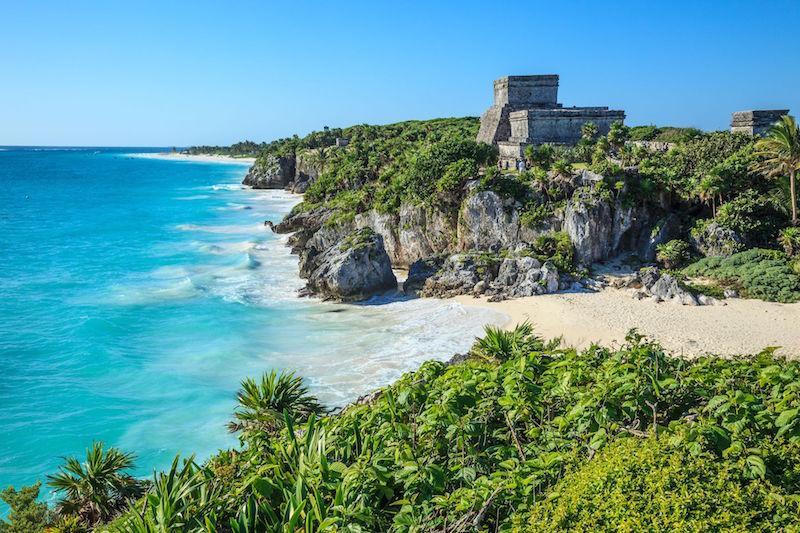
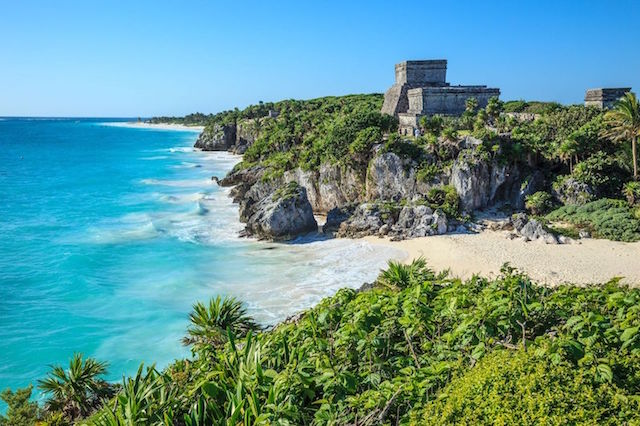
update quiz results with new copy, resized images

diff --git a/index.html b/index.html
@@ -1,5 +1,6 @@
 <!DOCTYPE html>
 <html>
+
 <head>
   <link rel="stylesheet" href="css/bootstrap.css" type="text/css">
   <link rel="stylesheet" href="css/styles.css" type="text/css">
@@ -7,6 +8,7 @@
   <script src="js/scripts.js"></script>
   <title>Vacation Suggester</title>
 </head>
+
 <body>
   <div class="container">
     <div class="jumbotron">
@@ -118,56 +120,85 @@
     <br>
     <div id="switzerland">
       <div class="well">
-        <h2>Backpacking in Zermatt, Switzerland!</h2>
-        <h3>Grab your hiking boots and start practicing your yodeling, the mountains are calling!</h3>
-        <img src="img/switzerland.jpg" alt="Switzerland">
-        <h3>Some other places to consider:</h3>
-        <ul>
-          <li>Aspen, Colorado</li>
-          <li>Vancouver, Canada</li>
-          <li>Auckland, New Zealand</li>
-        </ul>
+        <div class="row">
+          <div class="col-md-5">
+            <h3>Backpacking in Zermatt, Switzerland!</h3>
+            <h5>Grab your hiking boots and start practicing your yodeling, the mountains are calling!</h5>
+            <br>
+            <p>Some other places to consider:</p>
+            <ul>
+              <li>Aspen, Colorado</li>
+              <li>Vancouver, Canada</li>
+              <li>Auckland, New Zealand</li>
+            </ul>
+          </div>
+          <div class="col-md-7">
+            <img src="img/switzerland.jpg" alt="Switzerland">
+          </div>
+        </div>
       </div>
     </div>
     <div id="tokyo">
       <div class="well">
-        <h2>Sightseeing in Tokyo, Japan!</h2>
-        <h3>あなたは日本を愛するつもりです！</h3>
-        <img src="img/tokyo.jpg" alt="Tokyo">
-        <h3>Some other places to consider:</h3>
-        <ul>
-          <li>Paris, France</li>
-          <li>Buenos Aires, Argentina</li>
-          <li>Hong Kong</li>
-        </ul>
+        <div class="row">
+          <div class="col-md-5">
+            <h3>Sightseeing in Tokyo, Japan!</h3>
+            <h4>あなたは日本を愛するつもりです！</h4>
+            <br>
+            <p>Some other places to consider:</p>
+            <ul>
+              <li>Paris, France</li>
+              <li>Buenos Aires, Argentina</li>
+              <li>Hong Kong</li>
+            </ul>
+          </div>
+          <div class="col-md-7">
+            <img src="img/tokyo.jpg" alt="Tokyo">
+          </div>
+        </div>
       </div>
     </div>
     <div id="tulum">
       <div class="well">
-        <h2>Relaxing in Tulum, Mexico!</h2>
-        <h3>copy</h3>
-        <img src="img/tulum.jpg" alt="Tulum">
-        <h3>Some other places to consider:</h3>
-        <ul>
-          <li>Ubud, Bali</li>
-          <li>San Jose, Costa Rica</li>
-          <li>Kona, Hawaii</li>
-        </ul>
+        <div class="row">
+          <div class="col-md-5">
+            <h3>Relaxing in Tulum, Mexico!</h3>
+            <h4>White sand beaches, clear blue water, Maya ruins..What more could you want?</h4>
+            <br>
+            <p>Some other places to consider:</p>
+            <ul>
+              <li>Ubud, Bali</li>
+              <li>San Jose, Costa Rica</li>
+              <li>Kona, Hawaii</li>
+            </ul>
+          </div>
+          <div class="col-md-7">
+            <img src="img/tulum.jpg" alt="Tulum">
+          </div>
+        </div>
       </div>
     </div>
     <div id="sedona">
       <div class="well">
-        <h2>Glamping in Sedona, Arizona!</h2>
-        <h3>copy</h3>
-        <img src="img/sedona.jpg" alt="Sedona">
-        <h3>Some other places to consider:</h3>
-        <ul>
-          <li>Moab, Utah</li>
-          <li>Alice Springs, Australia</li>
-          <li>Palm Springs, California</li>
-        </ul>
+        <div class="row">
+          <div class="col-md-5">
+            <h3>Glamping in Sedona, Arizona!</h3>
+            <h4>The red sandstone make for the perfect backdrop to a relaxing yet adventurous getaway.</h4>
+            <br>
+            <p>Some other places to consider:</p>
+            <ul>
+              <li>Moab, Utah</li>
+              <li>Alice Springs, Australia</li>
+              <li>Palm Springs, California</li>
+            </ul>
+          </div>
+          <div class="col-md-7">
+            <img src="img/sedona.jpg" alt="Sedona">
+          </div>
+        </div>
       </div>
     </div>
   </div>
 </body>
+
 </html>

diff --git a/README.md b/README.md
@@ -1,33 +1,25 @@
-_Vacation Quiz_
-
+**Vacation Quiz**
 My Epicodus Vacation Quiz Project, October 27,2017
-
 By Lindsey Halliday
 
-_Description_
-
+**Description**
 This webpage is a vacation quiz, giving the user a recommendation on where their next trip should be. The quiz has six questions for the user to answer, with four vacation results that could appear. HTML, CSS, Bootstrap, Javascript and jQuery were used to write and style the webpage.
 
-_Setup/Installation Requirements_
-
+**Setup/Installation Requirements**
 Create a new directory call "vacation-quiz" on your desktop.
 Open the GitHub repository that I created for the portfolio project.
 Clone the repository, with the command "git clone [repository url]", into the local directory.
 Open code with the command "atom ."
 Here is a link to the gh-page:
 
-_Known Bugs_
-
+**Known Bugs**
 There are no bugs present.
 
-_Support and contact details_
-
+**Support and contact details**
 If there are any issues, questions or comments on the code, please feel free to reach out to Lindsey Halliday.
 
-_Technologies Used_
-
+**Technologies Used**
 HTML, CSS, Bootstrap v.3.7, Javascript, jQuery GitHub and Atom were used to create this webpage.
 
-_License_
-
+**License**
 Copyright (c) 2017 Lindsey Halliday
